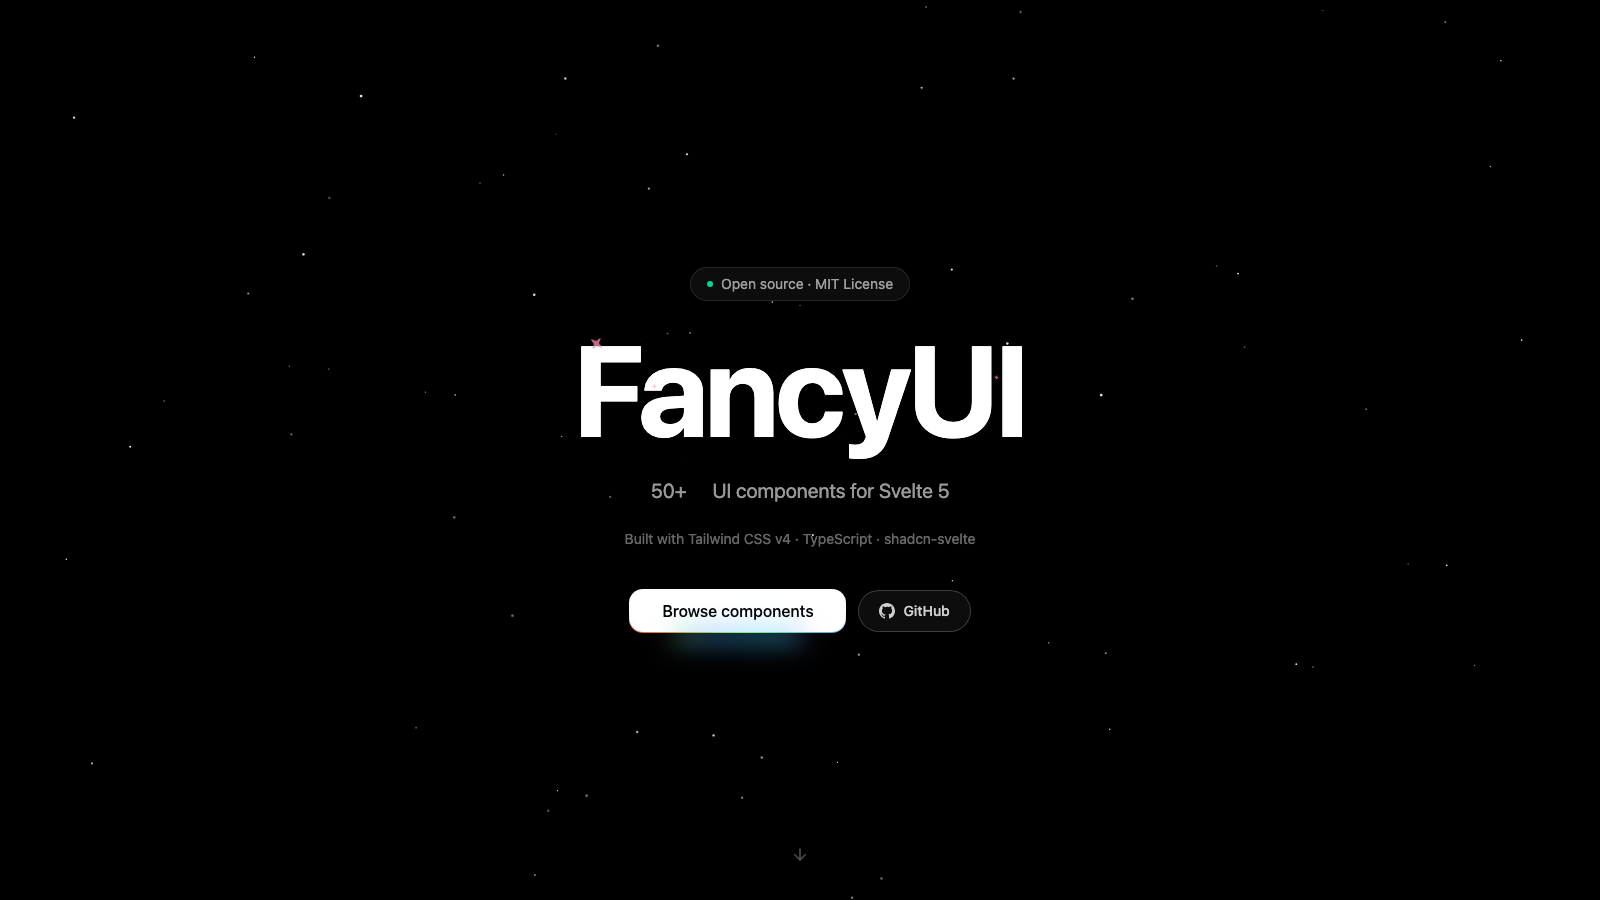
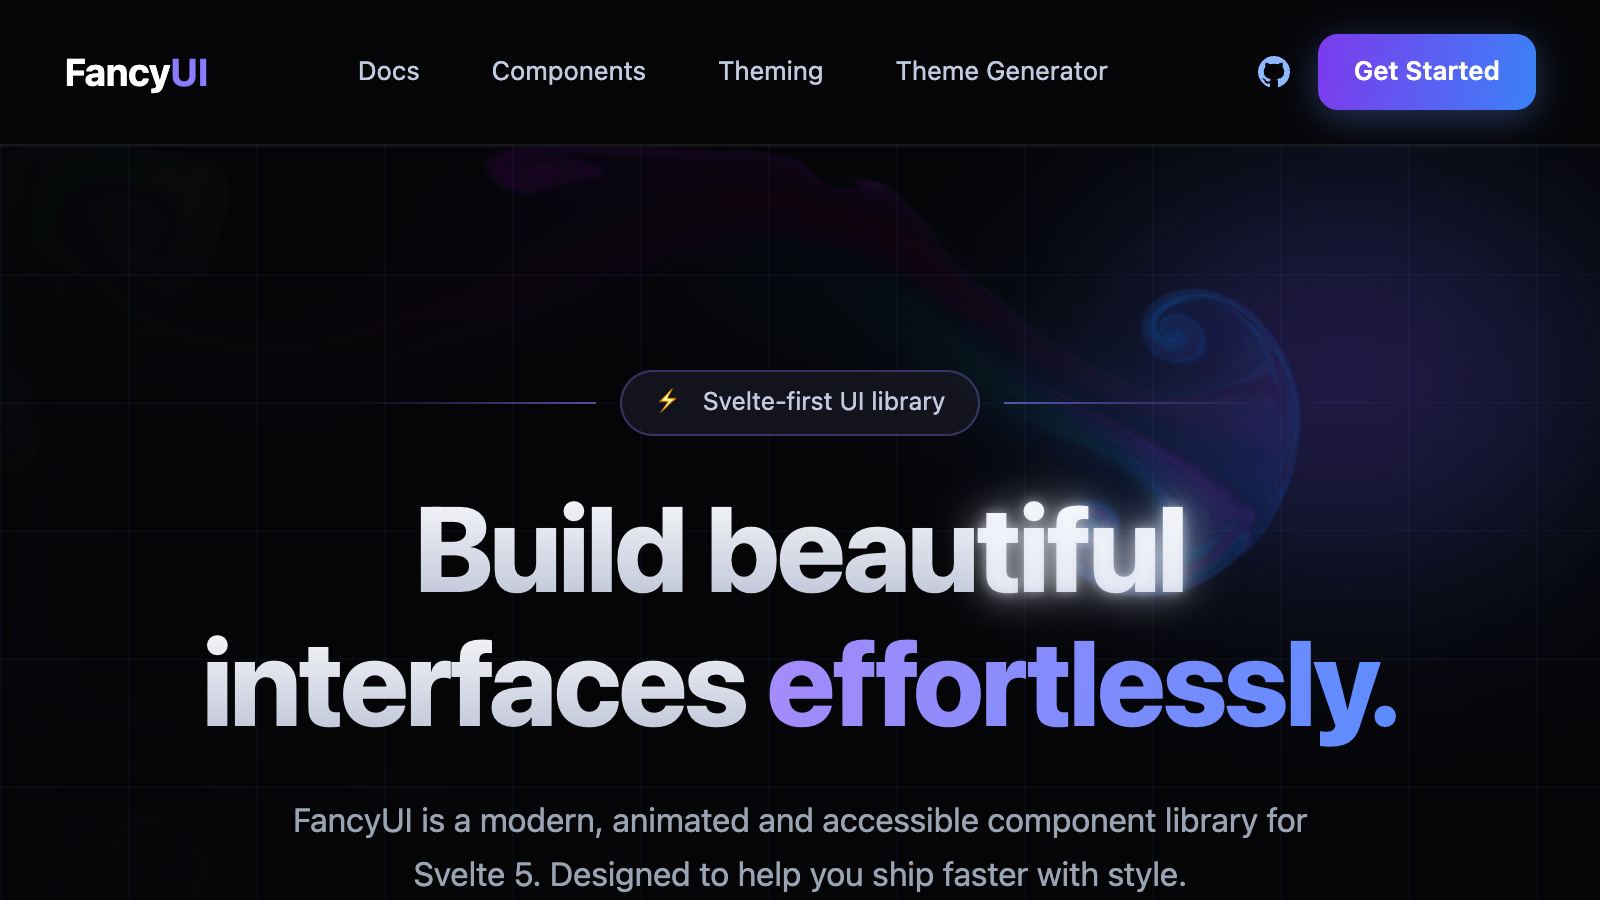
ci: gate builds pre-merge; refresh hero screenshot; drop dead builder links
- ci.yml: add pnpm build and pnpm package steps; restrict the pull_request_target condition to same-repo head (branch name alone was forgeable by forks) and set workflow permissions to contents: read
- Regenerate .github/demo-gallery.png from the redesigned landing page (1600x900)
- Landing header/footer: remove links to the builder route (unreachable in production), point Sponsors at the sponsors profile, footer llms.txt link, canonical repo URL casing

diff --git a/src/lib/components/landing/FooterCta.svelte b/src/lib/components/landing/FooterCta.svelte
@@ -2,7 +2,7 @@
 	import SynthwaveScene from "$lib/components/landing/synthwave/SynthwaveScene.svelte";
 	import GitHubStars from "$lib/components/docs/GitHubStars.svelte";
 
-	const GITHUB_URL = "https://github.com/ramaherbin/fancy-ui";
+	const GITHUB_URL = "https://github.com/RamaHerbin/fancy-ui";
 	const DEMO_URL = "/docs/components";
 	const DOCS_URL = "/docs";
 
@@ -21,7 +21,7 @@
 				title: "Resources",
 				links: [
 					{ label: "Theme Generator", href: `${DOCS_URL}/getting-started/theme-generator` },
-					{ label: "Site Builder", href: "/builder" },
+					{ label: "llms.txt", href: "/llms.txt" },
 					{ label: "GitHub", href: GITHUB_URL, external: true },
 					{ label: "Changelog", href: `${DOCS_URL}/getting-started/changelog` },
 				],
@@ -32,7 +32,7 @@
 					{ label: "Contribute", href: `${GITHUB_URL}/blob/main/CONTRIBUTING.md`, external: true },
 					{ label: "Issues", href: `${GITHUB_URL}/issues`, external: true },
 					{ label: "Discussions", href: `${GITHUB_URL}/discussions`, external: true },
-					{ label: "Sponsors", href: `${GITHUB_URL}#support`, external: true },
+					{ label: "Sponsors", href: "https://github.com/sponsors/RamaHerbin", external: true },
 				],
 			},
 		];

diff --git a/src/lib/components/landing/LandingHeader.svelte b/src/lib/components/landing/LandingHeader.svelte
@@ -1,12 +1,11 @@
 <script lang="ts">
-	const GITHUB_URL = "https://github.com/ramaherbin/fancy-ui";
+	const GITHUB_URL = "https://github.com/RamaHerbin/fancy-ui";
 
 	const navLinks: { label: string; href: string }[] = [
 		{ label: "Docs", href: "/docs/getting-started/introduction" },
 		{ label: "Components", href: "/docs/components" },
 		{ label: "Theming", href: "/docs/getting-started/theming" },
 		{ label: "Theme Generator", href: "/docs/getting-started/theme-generator" },
-		{ label: "Builder", href: "/builder" },
 	];
 </script>
 
